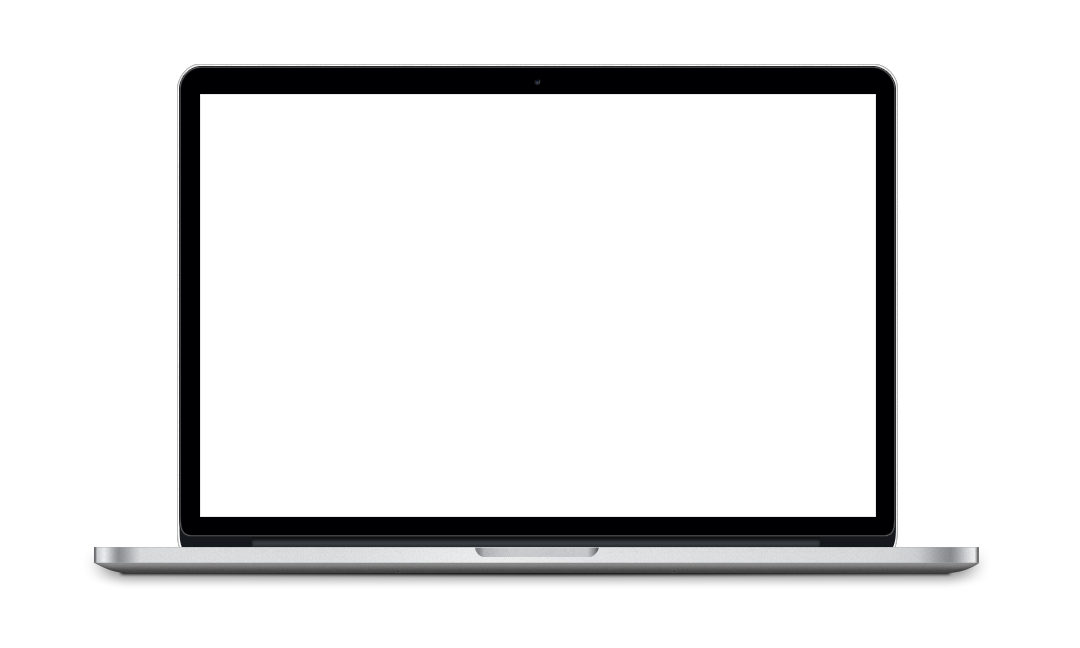
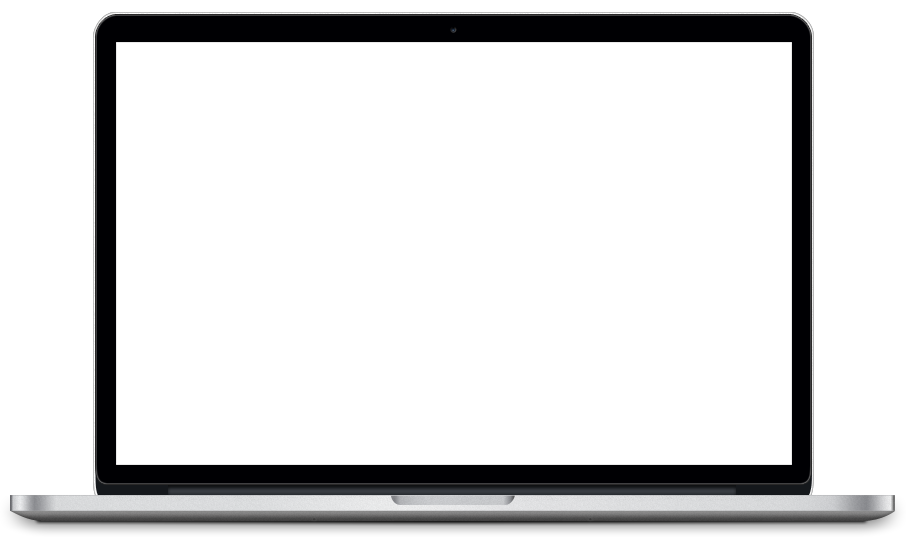
fix svg fonts and interactive section displays

Changed region(s): [[0.0, 0.0, 0.989, 1.0]]

diff --git a/index.html b/index.html
@@ -9,6 +9,8 @@
     <link rel="stylesheet" href="css/main.css">
 
     <link rel="stylesheet" type="text/css" href="https://cloud.typography.com/7260494/6919152/css/fonts.css" />
+    <link href="https://fonts.googleapis.com/css?family=Indie+Flower" rel="stylesheet">
+
 
     <script type="text/javascript" src="https://ajax.googleapis.com/ajax/libs/angularjs/1.4.3/angular.min.js"></script>
     <script type="text/javascript" src="https://ajax.googleapis.com/ajax/libs/angularjs/1.2.27/angular-route.min.js"></script>
@@ -160,8 +162,8 @@
         </div>
       </div>
       <div style="height:170px"></div>
-        <!--img src="Assets/macbook-white.png" width=1500px class="browser"-->
-
+      <div class="macbook-svg-holder" >
+        <img src="Assets/macbook-white.png" width=1200px class="browser">
         <object ng-show="myCtrl.svg=='blue'" id="svgObject" class="svg" data='Assets/blueline.svg' type="image/svg+xml" width="750">
           Your browser doesn't support SVG
         </object>
@@ -171,26 +173,24 @@
         <object ng-show="myCtrl.svg=='spring'" id="svgObject" class="svg" data='Assets/springbox.svg' type="image/svg+xml" width="750">
           Your browser doesn't support SVG
         </object>
-
       </div>
-      <div class="iphone-svg-holder">
-        <img src="img/slack2_iphone.png" class="svg-phone">
-        <!--object ng-show="" id="svgObject" class="phone-svg-content" data="Assets/blueline.svg" type="image/svg+xml" width="280">
-          Your browser doesn't support SVG
-        </object-->
+    </div>
 
-        <object ng-show="myCtrl.svg=='blue'" id="svgObject" class="phone-svg-content" data='Assets/blueline.svg' type="image/svg+xml" width="280">
-          Your browser doesn't support SVG
-        </object>
-        <object ng-show="myCtrl.svg=='sunset'" id="svgObject" class="phone-svg-content" data='Assets/sunsetdonut.svg' type="image/svg+xml" width="280">
-          Your browser doesn't support SVG
-        </object>
-        <object ng-show="myCtrl.svg=='spring'" id="svgObject" class="phone-svg-content" data='Assets/springbox.svg' type="image/svg+xml" width="280">
-          Your browser doesn't support SVG
-        </object>
+    <div class="iphone-svg-holder">
+      <img src="img/slack2_iphone.png"  class="svg-phone">
 
-        <div class="slack-phone-background"></div>
-      </div>
+      <object ng-show="myCtrl.svg=='blue'" id="svgObject" class="phone-svg-content" data='Assets/blueline.svg' type="image/svg+xml" width="280">
+        Your browser doesn't support SVG
+      </object>
+      <object ng-show="myCtrl.svg=='sunset'" id="svgObject" class="phone-svg-content" data='Assets/sunsetdonut.svg' type="image/svg+xml" width="280">
+        Your browser doesn't support SVG
+      </object>
+      <object ng-show="myCtrl.svg=='spring'" id="svgObject" class="phone-svg-content" data='Assets/springbox.svg' type="image/svg+xml" width="280">
+        Your browser doesn't support SVG
+      </object>
+
+      <div class="slack-phone-background"></div>
+    </div>
 
       <!--object id="svgObject" class="svg" data='Assets/sunsetdonut.svg' type="image/svg+xml" height="500" width="500">
         Your browser doesn't support SVG

diff --git a/sass/main.scss b/sass/main.scss
@@ -77,6 +77,30 @@ button {
   color: #fff;
   letter-spacing: 1px;
 }
+/* latin */
+@font-face {
+  font-family: 'Open Sans';
+  font-style: normal;
+  font-weight: 300;
+  src: local('Open Sans Light'), local('OpenSans-Light'), url(http://fonts.gstatic.com/s/opensans/v13/DXI1ORHCpsQm3Vp6mXoaTRampu5_7CjHW5spxoeN3Vs.woff2) format('woff2');
+  unicode-range: U+0000-00FF, U+0131, U+0152-0153, U+02C6, U+02DA, U+02DC, U+2000-206F, U+2074, U+20AC, U+2212, U+2215, U+E0FF, U+EFFD, U+F000;
+}
+/* latin */
+@font-face {
+  font-family: 'Open Sans';
+  font-style: normal;
+  font-weight: 700;
+  src: local('Open Sans Bold'), local('OpenSans-Bold'), url(http://fonts.gstatic.com/s/opensans/v13/k3k702ZOKiLJc3WVjuplzBampu5_7CjHW5spxoeN3Vs.woff2) format('woff2');
+  unicode-range: U+0000-00FF, U+0131, U+0152-0153, U+02C6, U+02DA, U+02DC, U+2000-206F, U+2074, U+20AC, U+2212, U+2215, U+E0FF, U+EFFD, U+F000;
+}
+
+svg {
+  text {
+    font-family: 'Open Sans', 'Helvetica', 'Arial', sans-serif !important;
+  }
+}
+
+
 
 .im-fetch {
   height: 750px;
@@ -171,11 +195,11 @@ Fetch Introduction
 Interactive SVGs
 =====================================*/
 .interactive-svg {
-  background-image: url(/Assets/macbook-white.png);
-  background-size: 104%;
-  background-repeat: no-repeat;
-  background-position: bottom;
-  background-position-x: 30px;
+  //background-image: url(/Assets/macbook-white.png);
+  //background-size: 104%;
+  //background-repeat: no-repeat;
+  //background-position: bottom;
+  //background-position-x: 30px;
   margin-top: 50px;
   margin-bottom: 40px;
   height: 1350px;
@@ -201,9 +225,15 @@ Interactive SVGs
     width: 385px;
     background-color: white;
   }
+
   .iphone-svg-holder {
-    transform: scale(1) translateX(-410px) translateY(215px) ;
+    transform: scale(.9) translateX(-480px) translateY(290px) ;
   }
+  .macbook-svg-holder {
+    margin-top:160px;
+    transform: scale(1.12) translateX(40px);
+  }
+
   .phone-svg-content {
     margin-top:185px;
     z-index: 5;
@@ -221,7 +251,7 @@ Interactive SVGs
       z-index: 7;
       right: 240;
       margin: 0 auto;
-      margin-top: 225px;
+      margin-top: 50px;
     }
   }
   .poster-container {

diff --git a/css/main.css b/css/main.css
@@ -63,6 +63,23 @@ button {
   color: #fff;
   letter-spacing: 1px; }
 
+/* latin */
+@font-face {
+  font-family: 'Open Sans';
+  font-style: normal;
+  font-weight: 300;
+  src: local("Open Sans Light"), local("OpenSans-Light"), url(http://fonts.gstatic.com/s/opensans/v13/DXI1ORHCpsQm3Vp6mXoaTRampu5_7CjHW5spxoeN3Vs.woff2) format("woff2");
+  unicode-range: U+0000-00FF, U+0131, U+0152-0153, U+02C6, U+02DA, U+02DC, U+2000-206F, U+2074, U+20AC, U+2212, U+2215, U+E0FF, U+EFFD, U+F000; }
+/* latin */
+@font-face {
+  font-family: 'Open Sans';
+  font-style: normal;
+  font-weight: 700;
+  src: local("Open Sans Bold"), local("OpenSans-Bold"), url(http://fonts.gstatic.com/s/opensans/v13/k3k702ZOKiLJc3WVjuplzBampu5_7CjHW5spxoeN3Vs.woff2) format("woff2");
+  unicode-range: U+0000-00FF, U+0131, U+0152-0153, U+02C6, U+02DA, U+02DC, U+2000-206F, U+2074, U+20AC, U+2212, U+2215, U+E0FF, U+EFFD, U+F000; }
+svg text {
+  font-family: 'Open Sans', 'Helvetica', 'Arial', sans-serif !important; }
+
 .im-fetch {
   height: 750px;
   background-color: #80C8ED; }
@@ -139,11 +156,6 @@ Fetch Introduction
 Interactive SVGs
 =====================================*/
 .interactive-svg {
-  background-image: url(/Assets/macbook-white.png);
-  background-size: 104%;
-  background-repeat: no-repeat;
-  background-position: bottom;
-  background-position-x: 30px;
   margin-top: 50px;
   margin-bottom: 40px;
   height: 1350px; }
@@ -167,7 +179,10 @@ Interactive SVGs
     width: 385px;
     background-color: white; }
   .interactive-svg .iphone-svg-holder {
-    transform: scale(1) translateX(-410px) translateY(215px); }
+    transform: scale(0.9) translateX(-480px) translateY(290px); }
+  .interactive-svg .macbook-svg-holder {
+    margin-top: 160px;
+    transform: scale(1.12) translateX(40px); }
   .interactive-svg .phone-svg-content {
     margin-top: 185px;
     z-index: 5;
@@ -189,7 +204,7 @@ Interactive SVGs
       z-index: 7;
       right: 240;
       margin: 0 auto;
-      margin-top: 225px; }
+      margin-top: 50px; }
   .interactive-svg .poster-container {
     float: left;
     display: block;
